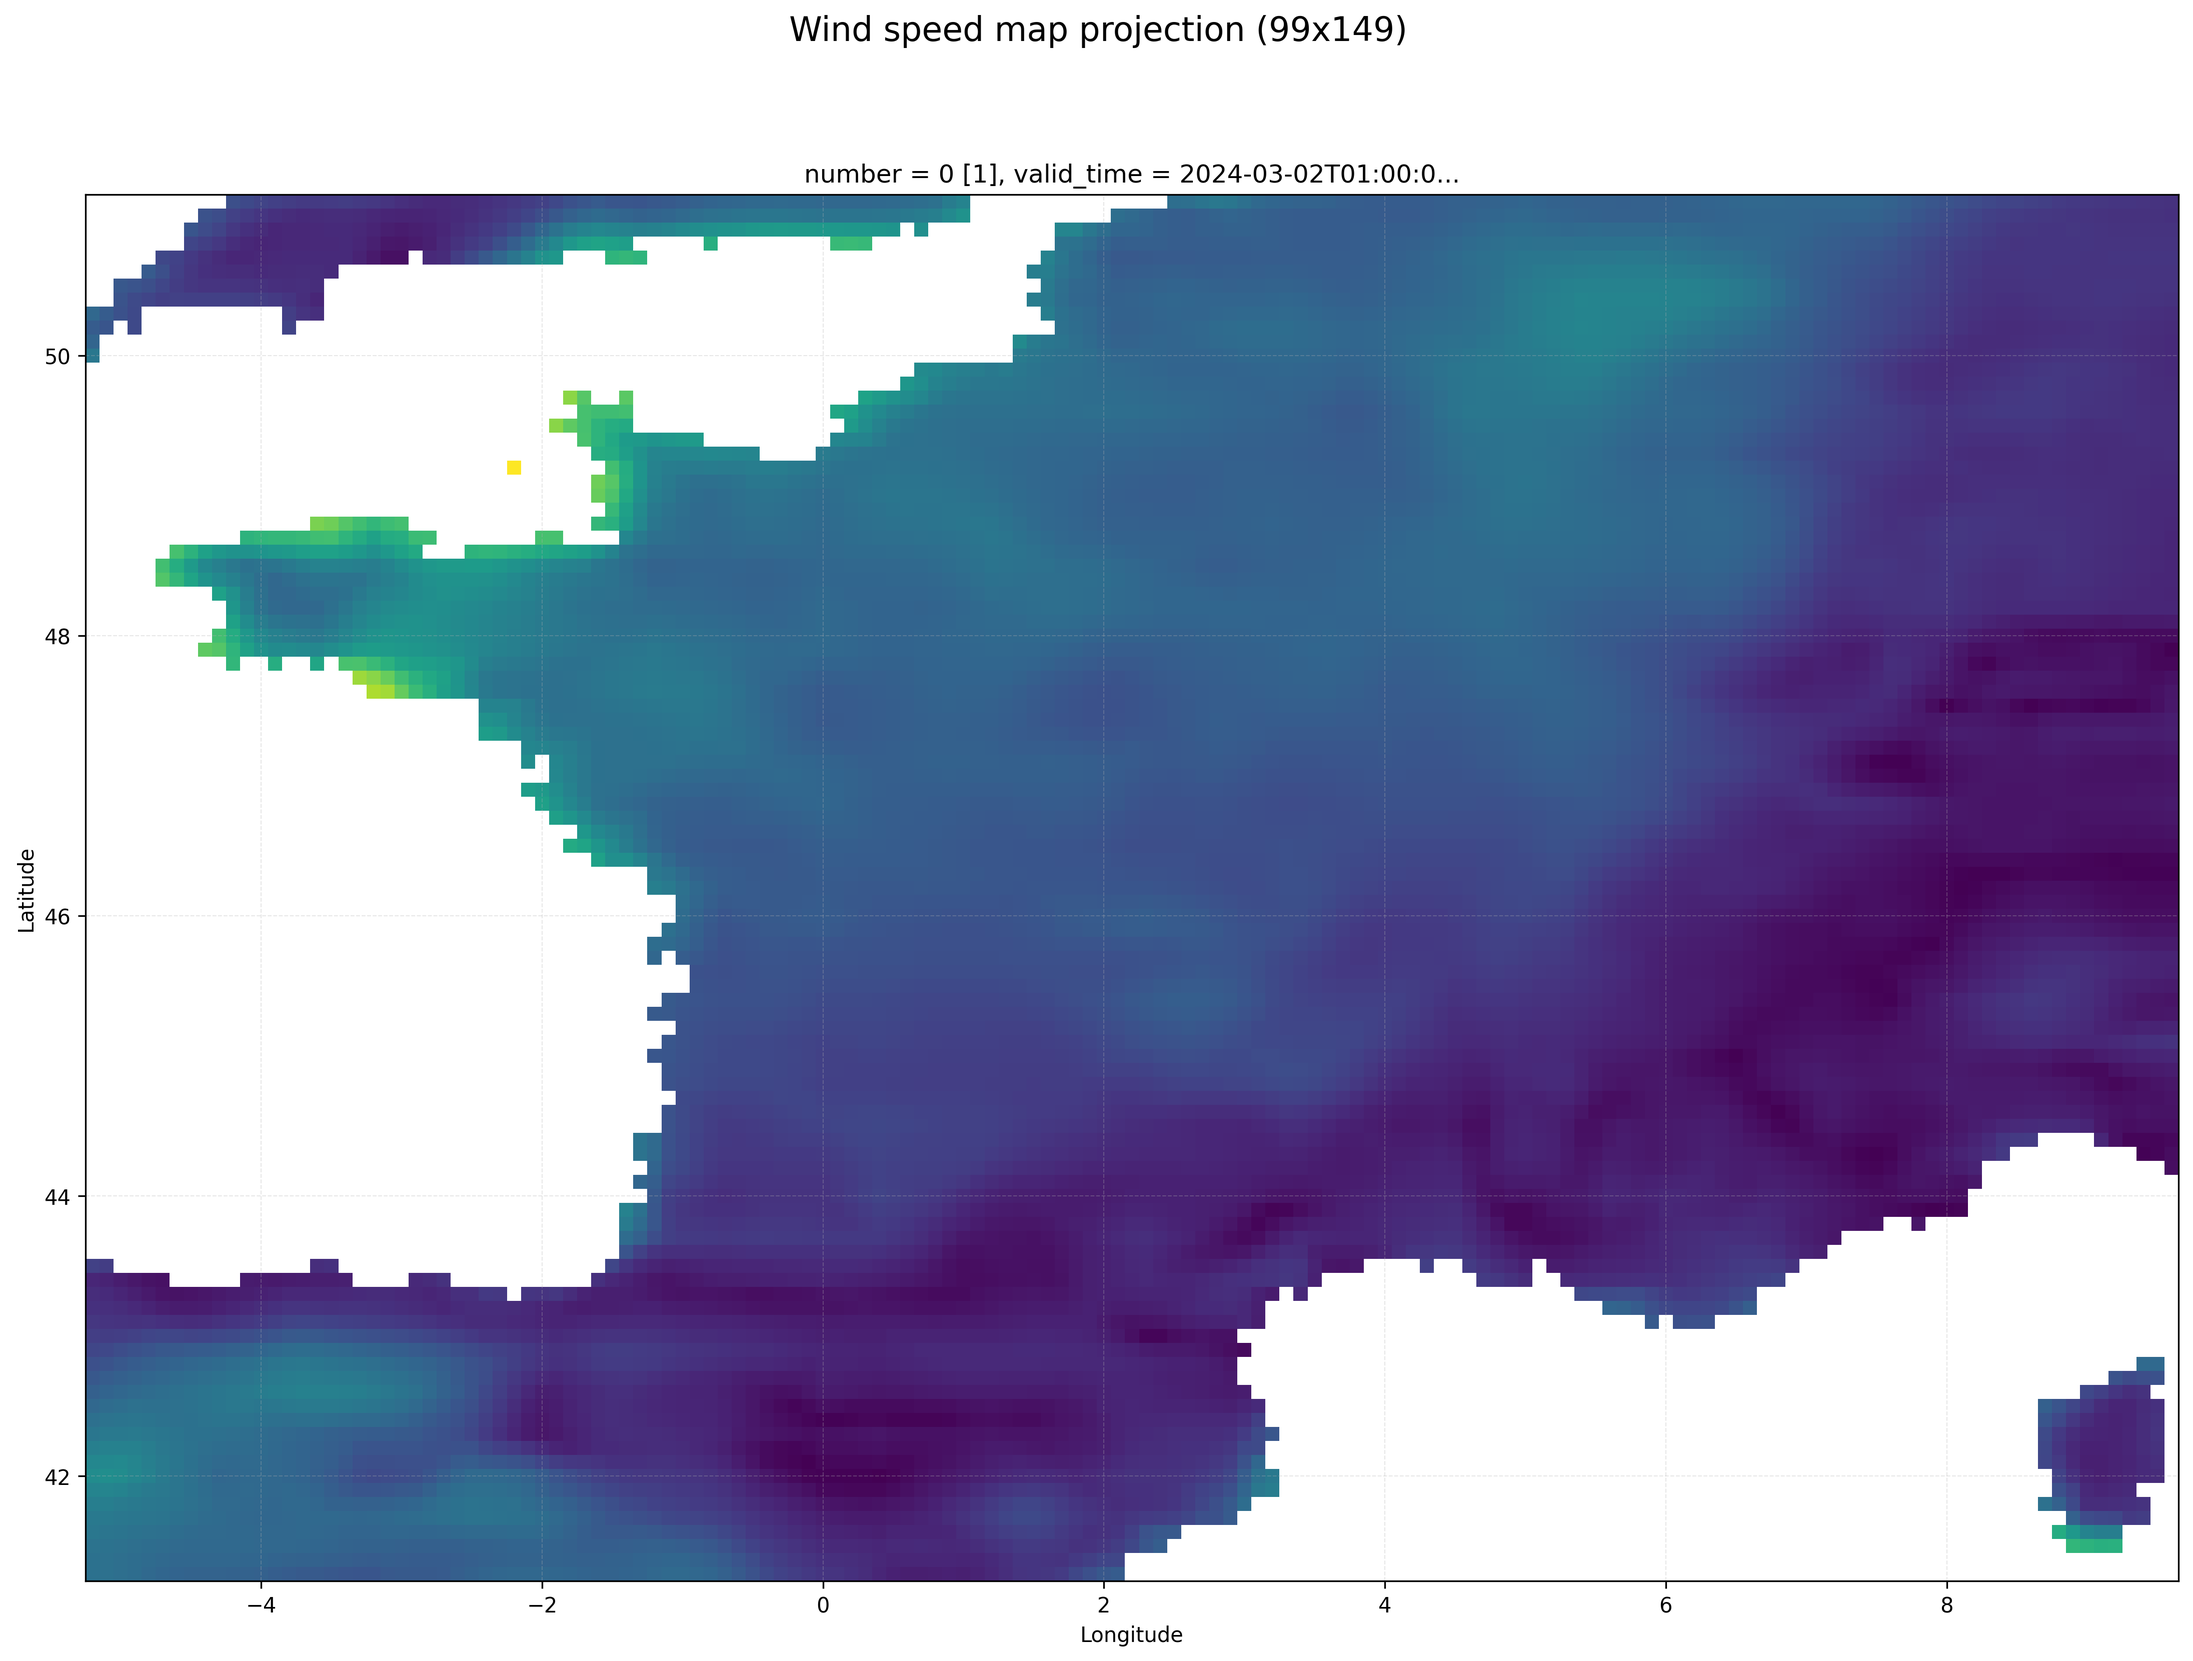
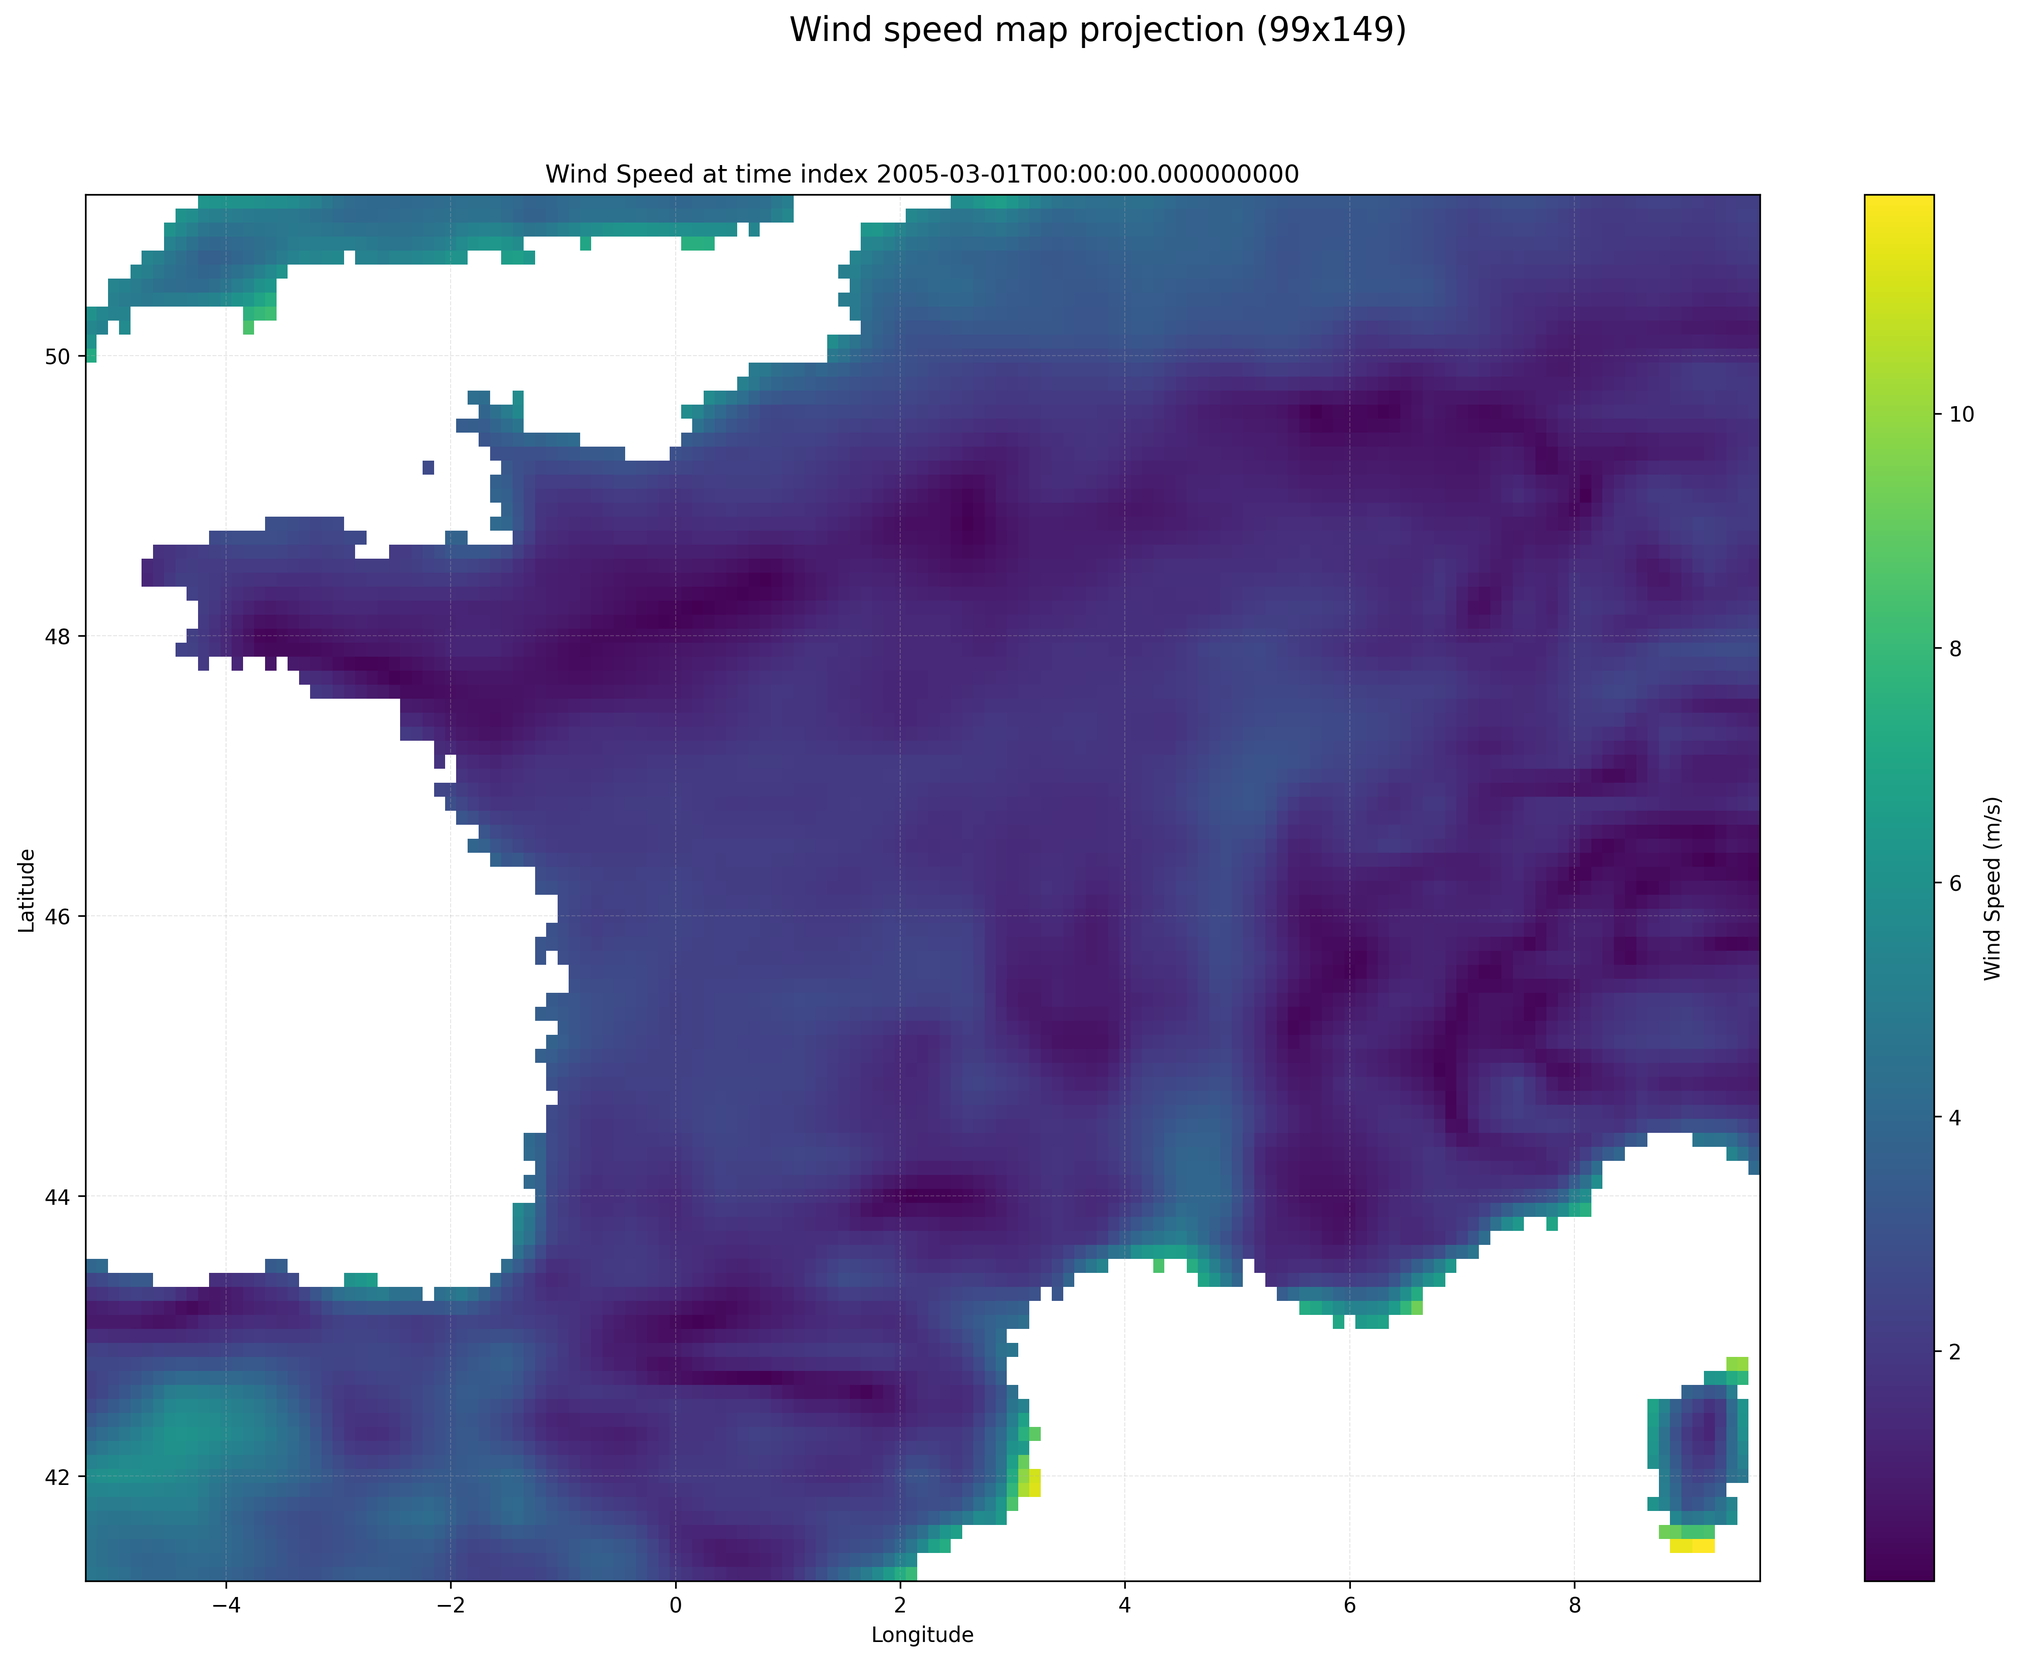
ERA5 LAND DOWNLOAD WORKING

diff --git a/src/owtp/pipelines/weather_data_preprocessing.py b/src/owtp/pipelines/weather_data_preprocessing.py
@@ -3,7 +3,7 @@ from tqdm.contrib.concurrent import process_map
 from pathlib import Path
 import xarray as xr
 from typing import Literal
-import dask
+import zipfile
 import seaborn as sns
 import pandas as pd
 import matplotlib.pyplot as plt
@@ -136,16 +136,19 @@ class Era5WeatherDataPreprocessor:
 
     def __init__(self, target: Literal["paths", "paths_local"]):
         self.config = owtp.config.load_yaml_config()
-        self.input_dir = Path(self.config[target]['raw_data']) / "weather" / "era5" / "hourly"
-        self.intermediate_dir = Path(self.config[target]['intermediate_data']) / "csv" / "weather" / "era5" / "hourly"
-        self.processed_dir = Path(self.config[target]['processed_data']) / "parquet" / "weather" / "era5" / "hourly"
+        self.era5_input_dir = Path(self.config[target]['raw_data']) / "weather" / "era5" / "hourly"
+        self.era5land_input_dir = Path(self.config[target]['raw_data']) / "weather" / "era5_land" / "hourly"
+        self.era5_intermediate_dir = Path(self.config[target]['intermediate_data']) / "csv" / "weather" / "era5" / "hourly"
+        self.era5land_intermediate_dir = Path(self.config[target]['intermediate_data']) / "grib" / "weather" / "era5_land" / "hourly"
+        self.era5_processed_dir = Path(self.config[target]['processed_data']) / "parquet" / "weather" / "era5" / "hourly"
+        self.era5land_processed_dir = Path(self.config[target]['processed_data']) / "parquet" / "weather" / "era5_land" / "hourly"
 
     def restructure_by_location(self, verbose: bool = True):
         """Convert all .nc files to CSV files by location (lat, lon) in the intermediate directory"""
 
         all_nc_files = self._get_era5_files(step='intermediate')
 
-        self.intermediate_dir.mkdir(parents=True, exist_ok=True)
+        self.era5_intermediate_dir.mkdir(parents=True, exist_ok=True)
 
         if verbose:
             print(f"\nConverting {len(all_nc_files)} ERA5 .nc files to intermediate CSV files in parallel...")
@@ -156,7 +159,7 @@ class Era5WeatherDataPreprocessor:
         """Convert all intermediate CSV files to Parquet files in the processed directory"""
         all_parquet_files = self._get_era5_files(step='processed')
 
-        self.processed_dir.mkdir(parents=True, exist_ok=True)
+        self.era5_processed_dir.mkdir(parents=True, exist_ok=True)
 
         if verbose:
             print(f"\nConverting {len(all_parquet_files)} intermediate ERA5 CSV files to processed Parquet files in parallel...")
@@ -176,8 +179,8 @@ class Era5WeatherDataPreprocessor:
                 lat, lon = loc['latitude'], loc['longitude']
                 loc_df: pd.DataFrame = df[(df['latitude'] == lat) & (df['longitude'] == lon)].set_index(['valid_time'])
 
-                self.intermediate_dir.mkdir(parents=True, exist_ok=True)
-                output_path = self.intermediate_dir / f"{lat:.2f}_{lon:.2f}.csv"
+                self.era5_intermediate_dir.mkdir(parents=True, exist_ok=True)
+                output_path = self.era5_intermediate_dir / f"{lat:.2f}_{lon:.2f}.csv"
 
                 if output_path.exists():
                     loc_df.to_csv(output_path, index=True, mode='a', header=False)
@@ -190,7 +193,7 @@ class Era5WeatherDataPreprocessor:
         """Convert a single intermediate CSV file into a processed Parquet"""
         try:
             df = pd.read_csv(file_path, parse_dates=['valid_time'])
-            output_path = self.processed_dir / f"{file_path.stem}.parquet.gz"
+            output_path = self.era5_processed_dir / f"{file_path.stem}.parquet.gz"
             df.sort_values('valid_time').to_parquet(output_path, compression='gzip')
         except Exception as e:
             raise RuntimeError(f"Failed to process {file_path}: {e}")
@@ -198,11 +201,11 @@ class Era5WeatherDataPreprocessor:
     def _get_era5_files(self, step: Literal['intermediate', 'processed']) -> list[Path]:
         """Get all ERA5 .nc files necessary for the given step"""
         if step == 'intermediate':
-            return list(file for file in sorted(self.input_dir.glob("*.nc")) if not file.name.startswith("._") and not file.name.startswith("new_"))
+            return list(file for file in sorted(self.era5_input_dir.glob("*.nc")) if not file.name.startswith("._") and not file.name.startswith("new_"))
         elif step == 'processed':
-            return list(file for file in sorted(self.intermediate_dir.glob("*.csv")) if not file.name.startswith("._"))
+            return list(file for file in sorted(self.era5_intermediate_dir.glob("*.csv")) if not file.name.startswith("._"))
 
 if __name__ == "__main__":
     era5_preprocessor = Era5WeatherDataPreprocessor(target="paths_local")
-    era5_preprocessor.restructure_by_location()
-    era5_preprocessor.convert_to_parquet()
+    #era5_preprocessor.restructure_by_location()
+    #era5_preprocessor.convert_to_parquet()

diff --git a/src/owtp/data/fetching/weather.py b/src/owtp/data/fetching/weather.py
@@ -92,7 +92,7 @@ class ERA5WeatherDataFetcher:
             target_zone: Literal["france"] = "france", 
             year_range: tuple[int, int] = (2005, 2025),
             verbose: bool = False):
-        """Batch download ERA5 single-levels for France (2005-2024)"""
+        """Batch download ERA5 and ERA5-Land data from CDS API"""
         active_dir = self.era5_base_dir if dataset == 'era5' else self.era5_land_base_dir
         active_dir.mkdir(parents=True, exist_ok=True)
 
@@ -108,15 +108,17 @@ class ERA5WeatherDataFetcher:
         ]
         
         years = list(range(*year_range))
-        months = ['01', '02', '03', '04', '05', '06', '07', '08', '09', '10', '11', '12']
+        months = [['01', '02'], ['03', '04'], ['05', '06'], ['07', '08'], ['09', '10'], ['11', '12']]
+        if dataset == 'era5':
+            months = [[m] for m in sum(months, [])]
         days = [f'{d:02d}' for d in range(1, 32)]
         # Generate times based on frequency (e.g., every 1, 5, 10, 15, 30, or 60 minutes)
         times = [f'{h:02d}:00' for h in range(0, 24)]
         
         # Download by month to reduce number of requests
         for year in tqdm(years, desc="Downloading ERA5 data by year"):
-            for month in tqdm(months, desc=f"Year {year} months"):
-                    filename = active_dir / f'{year}_{month}.nc'
+            for months in tqdm(months, desc=f"Year {year} months"):
+                    filename = active_dir / f'{year}_{"_".join(months)}.nc'
                     
                     if filename.exists():
                         if verbose:
@@ -124,16 +126,17 @@ class ERA5WeatherDataFetcher:
                         continue
                         
                     if verbose:
-                        print(f"Queueing ERA5 {year} {month} download...")
+                        print(f"Queueing ERA5 {year} {months} download...")
                     
                     self.client.retrieve(
                         dataset_id,
                         {
                             'product_type': 'reanalysis',
                             'format': 'netcdf',
+                            'download_format': 'zip' if dataset == 'era5' else 'unarchived',
                             'variable': variables,
                             'year': str(year),
-                            'month': str(month),
+                            'month': months,
                             'day': days,
                             'time': times,
                             'area': area,

diff --git a/src/owtp/visualisations/era5/visualize_era5.py b/src/owtp/visualisations/era5/visualize_era5.py
@@ -1,27 +1,35 @@
-import geopandas as gpd
 import xarray as xr
 import matplotlib.pyplot as plt
-import geodatasets
-import numpy as np
 
-PATH = "data/raw/weather/era5_land/hourly/2005_04.nc"
+PATH = "data/raw/weather/era5_land/hourly/2005_03_04.nc"
 
 # Load data
-ds = xr.open_dataset(PATH, engine="scipy")
+ds = xr.load_dataset(PATH, engine="h5netcdf")
 
 valid_mask = ~(ds["t2m"].isnull() | ds["u10"].isnull() | ds["v10"].isnull() | ds["sp"].isnull())
 ds = ds.where(valid_mask, drop=False)
 
 print(f"Dataset loaded with dimensions:\n{ds.coords}")
+print(f"Variables in dataset:\n{list(ds.data_vars)}")
 
 var1, var2 = "u10", "v10"
 
 # Prepare 3x3 subplots for 9 different times
 fig = plt.figure(figsize=(18, 12))
 
-time = 0
-data: xr.DataArray = np.sqrt((ds[var1].isel(valid_time=time) ** 2) + (ds[var2].isel(valid_time=time) ** 2)) # type: ignore
-im = data.plot(cmap='viridis', add_colorbar=False) # type: ignore
+print(ds.to_dataframe().head())
+
+time = ds.valid_time.values[0]
+data: xr.DataArray = ((ds[var1].sel(valid_time=time) ** 2) + (ds[var2].sel(valid_time=time) ** 2)) ** 0.5
+data_plot = data.plot.pcolormesh(
+    ax=plt.gca(),
+    x='longitude',
+    y='latitude',
+    cmap='viridis',
+    add_colorbar=True,
+    cbar_kwargs={'label': 'Wind Speed (m/s)'}
+)
+plt.title(f"Wind Speed at time index {time}")
 plt.xlabel("Longitude")
 plt.ylabel("Latitude")
 plt.grid(True, which="both", ls="--", lw=0.5, alpha=0.3)
